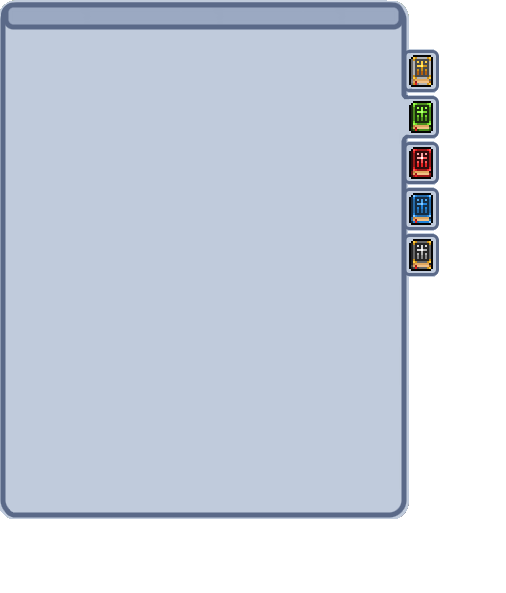
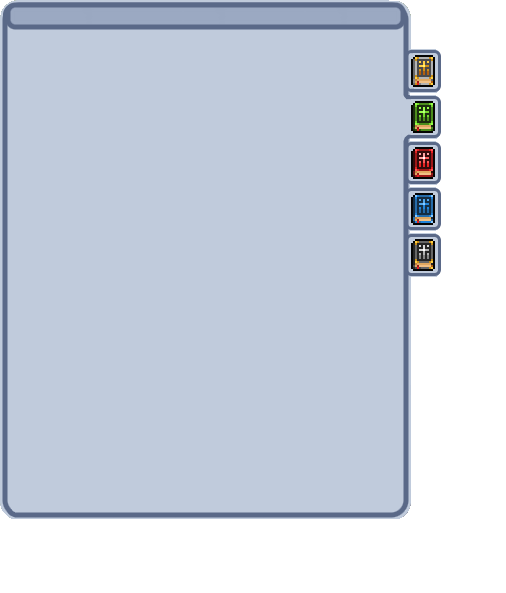
ability panel and drag and drop

Changed region(s): [[0.7708, 0.0, 0.8893, 0.8803], [0.0, 0.0, 0.0296, 0.8803]]

diff --git a/src/main/system/ui/skillpanel/UI_SkillPanel.java b/src/main/system/ui/skillpanel/UI_SkillPanel.java
@@ -7,7 +7,9 @@ import main.system.ui.Colors;
 import main.system.ui.FonT;
 import main.system.ui.skillbar.SKILL;
 import main.system.ui.skillbar.skills.SKL_Filler;
+import main.system.ui.skillbar.skills.SKL_RingSalvo;
 
+import java.awt.Point;
 import java.awt.Rectangle;
 import java.util.ArrayList;
 import java.util.Objects;
@@ -28,16 +30,20 @@ public class UI_SkillPanel {
     ArrayList<SKILL> poisonSkills = new ArrayList<>();
     ArrayList<SKILL> iceSkills = new ArrayList<>();
     ArrayList<SKILL> darkSkills = new ArrayList<>();
+    public Rectangle skillPanelMover = new Rectangle(409, 29);
+    public int toolTipNumber;
+    public SKILL draggedSKILL;
 
 
     public UI_SkillPanel(MainGame mg) {
+        this.mg = mg;
         whichPanel[0] = true;
         this.wholeSkillWindow = new Rectangle(skillPanelX, skillPanelY, 445, 524);
         for (int i = 0; i < 5; i++) {
-            hitBoxesSideButtons[i] = new Rectangle(123, 123, 38, 43);
+            hitBoxesSideButtons[i] = new Rectangle(123, 123, 32, 41);
         }
         for (int i = 0; i < 10; i++) {
-            arcaneSkills.add(new SKL_Filler(mg));
+            arcaneSkills.add(new SKL_RingSalvo(mg));
             fireSkills.add(new SKL_Filler(mg));
             poisonSkills.add(new SKL_Filler(mg));
             iceSkills.add(new SKL_Filler(mg));
@@ -65,35 +71,173 @@ public class UI_SkillPanel {
         }
         gc.setFill(Colors.darkBackground);
         gc.setFont(FonT.minecraftBold16);
-        gc.fillText("Spell Book", skillPanelX + 160, skillPanelY + 35);
+        gc.fillText("Spell Book", skillPanelX + 160, skillPanelY + 15);
         wholeSkillWindow.x = skillPanelX;
         wholeSkillWindow.y = skillPanelY;
+        skillPanelMover.x = skillPanelX;
+        skillPanelMover.y = skillPanelY;
         for (int i = 0; i < 5; i++) {
             hitBoxesSideButtons[i].x = skillPanelX + 407;
-            hitBoxesSideButtons[i].y = skillPanelY + 51 + 51 * i;
+            hitBoxesSideButtons[i].y = skillPanelY + 51 + 45 * i;
+            if (hitBoxesSideButtons[i].contains(mg.inputH.lastMousePosition)) {
+                drawToolTip(gc, mg.inputH.lastMousePosition.x, mg.inputH.lastMousePosition.y, i);
+            }
         }
     }
 
     private void drawSkills(GraphicsContext gc, int x, int y) {
-        x += 25;
-        y += 100;
+        x += 25; //?
+        y += 100;//?
         gc.setFont(FonT.minecraftItalic12);
         gc.setFill(Colors.darkBackground);
         if (whichPanel[0]) {
             for (int i = 0; i < arcaneSkills.size(); i++) {
                 arcaneSkills.get(i).drawSkillSlot(gc, x - 5, y - 40);
+                arcaneSkills.get(i).hitBox.x = x + 2;
+                arcaneSkills.get(i).hitBox.y = y - 33;
                 gc.fillText(arcaneSkills.get(i).name, x + 65, y - 25);
                 arcaneSkills.get(i + 1).drawSkillSlot(gc, x + 190, y - 40);
                 gc.fillText(arcaneSkills.get(i + 1).name, x + 260, y - 25);
+                arcaneSkills.get(i + 1).hitBox.x = x + 197;
+                arcaneSkills.get(i + 1).hitBox.y = y - 33;
+                i++;
+                y += 85;
+            }
+        } else if (whichPanel[1]) {
+            for (int i = 0; i < poisonSkills.size(); i++) {
+                poisonSkills.get(i).drawSkillSlot(gc, x - 5, y - 40);
+                gc.fillText(poisonSkills.get(i).name, x + 65, y - 25);
+                poisonSkills.get(i).hitBox.x = x + 2;
+                poisonSkills.get(i).hitBox.y = y - 33;
+                poisonSkills.get(i + 1).drawSkillSlot(gc, x + 190, y - 40);
+                gc.fillText(poisonSkills.get(i + 1).name, x + 260, y - 25);
+                poisonSkills.get(i + 1).hitBox.x = x + 197;
+                poisonSkills.get(i + 1).hitBox.y = y - 33;
+                i++;
+                y += 85;
+            }
+        } else if (whichPanel[2]) {
+            for (int i = 0; i < fireSkills.size(); i++) {
+                fireSkills.get(i).drawSkillSlot(gc, x - 5, y - 40);
+                gc.fillText(fireSkills.get(i).name, x + 65, y - 25);
+                fireSkills.get(i).hitBox.x = x + 2;
+                fireSkills.get(i).hitBox.y = y - 33;
+                fireSkills.get(i + 1).drawSkillSlot(gc, x + 190, y - 40);
+                gc.fillText(fireSkills.get(i + 1).name, x + 260, y - 25);
+                fireSkills.get(i + 1).hitBox.x = x + 197;
+                fireSkills.get(i + 1).hitBox.y = y - 33;
+
+                i++;
+                y += 85;
+            }
+        } else if (whichPanel[3]) {
+            for (int i = 0; i < iceSkills.size(); i++) {
+                iceSkills.get(i).drawSkillSlot(gc, x - 5, y - 40);
+                gc.fillText(iceSkills.get(i).name, x + 65, y - 25);
+                iceSkills.get(i).hitBox.x = x + 2;
+                iceSkills.get(i).hitBox.y = y - 33;
+                iceSkills.get(i + 1).drawSkillSlot(gc, x + 190, y - 40);
+                gc.fillText(iceSkills.get(i + 1).name, x + 260, y - 25);
+                iceSkills.get(i + 1).hitBox.x = x + 197;
+                iceSkills.get(i + 1).hitBox.y = y - 33;
+                i++;
+                y += 85;
+            }
+        } else if (whichPanel[4]) {
+            for (int i = 0; i < darkSkills.size(); i++) {
+                darkSkills.get(i).drawSkillSlot(gc, x - 5, y - 40);
+                gc.fillText(darkSkills.get(i).name, x + 65, y - 25);
+                darkSkills.get(i).hitBox.x = x + 2;
+                darkSkills.get(i).hitBox.y = y - 33;
+                darkSkills.get(i + 1).drawSkillSlot(gc, x + 190, y - 40);
+                gc.fillText(darkSkills.get(i + 1).name, x + 260, y - 25);
+                darkSkills.get(i + 1).hitBox.x = x + 197;
+                darkSkills.get(i + 1).hitBox.y = y - 33;
                 i++;
                 y += 85;
             }
         }
     }
 
-    public void dragAndDrop(GraphicsContext gc) {
-        if (whichPanel[0]) {
+    private void drawToolTip(GraphicsContext gc, int x, int y, int i) {
+        gc.setFill(Colors.lightGreyMiddleAlpha);
+        gc.fillRoundRect(x + 25, y - 15, 75, 20, 10, 10);
+        gc.setFill(Colors.darkBackground);
+        gc.strokeRoundRect(x + 25, y - 15, 75, 20, 10, 10);
+        gc.setFont(FonT.minecraftBold14);
+        switch (i) {
+            case 0 -> gc.fillText("Arcane Magic", x + 25, y);
+            case 1 -> gc.fillText("Poison Magic", x + 25, y);
+            case 2 -> gc.fillText("Fire Magic", x + 25, y);
+            case 3 -> gc.fillText("Ice Magic", x + 25, y);
+            case 4 -> gc.fillText("Dark Magic", x + 25, y);
+        }
+    }
 
+    public void dragAndDropSkillBar(GraphicsContext gc) {
+        Point mousePos = mg.inputH.lastMousePosition;
+        if (draggedSKILL != null) {
+            gc.drawImage(draggedSKILL.icon, mg.inputH.lastMousePosition.x - 25, mg.inputH.lastMousePosition.y - 25);
+            if (!mg.inputH.mouse1Pressed) {
+                for (int i = 0; i < 8; i++) {
+                    if (mg.sBar.hitBoxes[i].contains(mousePos)) {
+                        for (SKILL skill : mg.sBar.skills) {
+                            if (skill.name.equals(mg.sBar.skills[i].name)) {
+                                draggedSKILL = null;
+                                return;
+                            }
+                        }
+                        mg.sBar.skills[i] = draggedSKILL;
+                        draggedSKILL = null;
+                        return;
+                    }
+                }
+                draggedSKILL = null;
+            }
+        }
+        if (draggedSKILL == null && mg.inputH.mouse1Pressed) {
+            if (mg.skillPanel.whichPanel[0]) {
+                for (SKILL skill : arcaneSkills) {
+                    if (skill.hitBox.contains(mousePos)) {
+                        draggedSKILL = skill;
+                        return;
+                    }
+                }
+            } else if (mg.skillPanel.whichPanel[1]) {
+                for (SKILL skill : poisonSkills) {
+                    if (skill.hitBox.contains(mousePos)) {
+                        draggedSKILL = skill;
+                        return;
+                    }
+                }
+            } else if (mg.skillPanel.whichPanel[2]) {
+                for (SKILL skill : fireSkills) {
+                    if (skill.hitBox.contains(mousePos)) {
+                        draggedSKILL = skill;
+                        return;
+                    }
+                }
+            } else if (mg.skillPanel.whichPanel[3]) {
+                for (SKILL skill : iceSkills) {
+                    if (skill.hitBox.contains(mousePos)) {
+                        draggedSKILL = skill;
+                        return;
+                    }
+                }
+            } else if (mg.skillPanel.whichPanel[4]) {
+                for (SKILL skill : darkSkills) {
+                    if (skill.hitBox.contains(mousePos)) {
+                        draggedSKILL = skill;
+                        return;
+                    }
+                }
+            }
+            for (int i = 0; i < 8; i++) {
+                if (mg.sBar.hitBoxes[i].contains(mousePos)) {
+                    draggedSKILL = mg.sBar.skills[i];
+                    return;
+                }
+            }
         }
     }
 }

diff --git a/src/main/system/ui/inventory/UI_InventoryPanel.java b/src/main/system/ui/inventory/UI_InventoryPanel.java
@@ -552,14 +552,27 @@ public class UI_InventoryPanel {
                 mg.talentP.talentPanelY += mousePos.y - previousMousePosition.y;
             }
         } else if (mg.skillPanel.wholeSkillWindow.contains(mousePos)) {
-            for (int i = 0; i < 5; i++) {
-                if (mg.inputH.mouse1Pressed && mg.skillPanel.hitBoxesSideButtons[i].contains(mousePos)) {
-                    System.out.println("hey");
-                    for (int j = 0; j < 5; j++) {
-                        mg.skillPanel.whichPanel[i] = false;
+            if (mg.skillPanel.skillPanelMover.contains(mousePos)) {
+                if (mg.inputH.mouse1Pressed) {
+                    mg.skillPanel.skillPanelX += mousePos.x - previousMousePosition.x;
+                    mg.skillPanel.skillPanelY += mousePos.y - previousMousePosition.y;
+                    mg.skillPanel.skillPanelMover.x = mg.skillPanel.skillPanelX;
+                    mg.skillPanel.skillPanelMover.y = mg.skillPanel.skillPanelY;
+                }
+            } else {
+                for (int i = 0; i < 5; i++) {
+                    if (mg.skillPanel.hitBoxesSideButtons[i].contains(mousePos)) {
+                        if (mg.inputH.mouse1Pressed) {
+                            for (int j = 0; j < 5; j++) {
+                                mg.skillPanel.whichPanel[j] = false;
+                            }
+                            mg.skillPanel.whichPanel[i] = true;
+                            mg.inputH.mouse1Pressed = false;
+                            return;
+                        } else {
+                            mg.skillPanel.toolTipNumber = i;
+                        }
                     }
-                    mg.skillPanel.whichPanel[i] = true;
-                    return;
                 }
             }
         }
@@ -567,6 +580,7 @@ public class UI_InventoryPanel {
         previousMousePosition.y = mousePos.y;
     }
 
+    //TODO prevent windows off screen dragging
     private void drawCharacterBackGroundMain(GraphicsContext gc, int startX, int startY) {
         //inventory background
         wholeCharWindow.x = startX - 47;

diff --git a/src/main/system/ui/skillbar/SKILL.java b/src/main/system/ui/skillbar/SKILL.java
@@ -8,11 +8,12 @@ import main.MainGame;
 import main.system.ui.Colors;
 import main.system.ui.Effects;
 
+import java.awt.Rectangle;
 import java.util.Objects;
 
 abstract public class SKILL {
 
-    protected Image icon;
+    public Image icon;
     protected final MainGame mg;
     protected Effects[] procEffects = new Effects[5];
     public float totalCoolDown;
@@ -22,6 +23,7 @@ abstract public class SKILL {
     public float damage;
     protected int castTimeTotal;
     protected int castTimeActive;
+    public Rectangle hitBox = new Rectangle(53, 53);
     private int side1;
     private int side2;
     private int side3;
@@ -114,7 +116,7 @@ abstract public class SKILL {
 
     public void drawSkillSlot(GraphicsContext gc, int x, int y) {
         gc.drawImage(skillSlot, x, y);
-        gc.drawImage(icon, x + 6, y + 6);
+        gc.drawImage(icon, x + 7, y + 7);
     }
 
     protected Image setup(String imagePath) {
@@ -142,4 +144,9 @@ abstract public class SKILL {
     }
 
     abstract public void activate();
+
+    public void drawToolTip(GraphicsContext gc, int x, int y) {
+        //TODO tooltip
+
+    }
 }

diff --git a/src/main/MainGame.java b/src/main/MainGame.java
@@ -299,7 +299,7 @@ public class MainGame {
             qPanel.draw(gc);
             sBar.draw(gc);
             wAnim.drawLayerOneTwo(gc);
-            ui.draw(gc);
+
             if (showMap) {
                 gameMap.draw(gc);
             }
@@ -318,8 +318,9 @@ public class MainGame {
             }
             if (showAbilities) {
                 skillPanel.drawSkillPanel(gc);
-                skillPanel.dragAndDrop(gc);
+                skillPanel.dragAndDropSkillBar(gc);
             }
+            ui.draw(gc);
         } else if (gameState == State.TITLE || gameState == State.TITLE_OPTION || loadingScreen) {
             ui.draw(gc);
         }

diff --git a/src/main/system/ui/skillbar/UI_SkillBar.java b/src/main/system/ui/skillbar/UI_SkillBar.java
@@ -41,8 +41,10 @@ public class UI_SkillBar {
     public Rectangle abilitiesBox = new Rectangle(skillBarX + 64 * 7 + 110, skillBarY + 28, 32, 32);
     public Rectangle mapBox = new Rectangle(skillBarX + 64 * 7 + 144, skillBarY + 28, 32, 32);
     public Rectangle settingsBox = new Rectangle(skillBarX + 64 * 7 + 178, skillBarY + 28, 32, 32);
+    MainGame mg;
 
     public UI_SkillBar(MainGame mg) {
+        this.mg = mg;
         skills[0] = new SKL_RingSalvo(mg);
         skills[1] = new SKL_Lightning(mg);
         skills[2] = new SKL_SelfRegen(mg);

diff --git a/src/main/system/ui/skillbar/skills/SKL_RingSalvo.java b/src/main/system/ui/skillbar/skills/SKL_RingSalvo.java
@@ -14,6 +14,7 @@ public class SKL_RingSalvo extends SKILL {
         actualCoolDown = 120;
         this.coolDownCoefficient = 0;
         this.icon = setup("ring_salvo.png");
+        name = "Fire Salvo";
     }
 
     @Override
@@ -24,7 +25,7 @@ public class SKL_RingSalvo extends SKILL {
 
     @Override
     public void update() {
-       super.updateCooldown();
+        super.updateCooldown();
     }
 
     @Override

diff --git a/src/main/system/ui/skillbar/skills/SKL_AutoShot.java b/src/main/system/ui/skillbar/skills/SKL_AutoShot.java
@@ -23,11 +23,12 @@ public class SKL_AutoShot extends SKILL {
     public void draw(GraphicsContext gc, int skillBarX, int skillBarY) {
         drawIcon(gc, skillBarX, skillBarY);
         drawCooldown(gc, skillBarX, skillBarY);
+        name = "Slime Ball";
     }
 
     @Override
     public void update() {
-       super.updateCooldown();
+        super.updateCooldown();
     }
 
     @Override

diff --git a/src/input/InputHandler.java b/src/input/InputHandler.java
@@ -237,6 +237,7 @@ public class InputHandler {
                 mg.showChar = false;
                 mg.showMap = false;
                 mg.showTalents = false;
+                mg.showAbilities = false;
                 try {
                     Thread.sleep(15);
                 } catch (InterruptedException ex) {

diff --git a/src/main/system/ui/skillbar/skills/SKL_Filler.java b/src/main/system/ui/skillbar/skills/SKL_Filler.java
@@ -7,7 +7,7 @@ import main.system.ui.skillbar.SKILL;
 public class SKL_Filler extends SKILL {
     public SKL_Filler(MainGame mg) {
         super(mg);
-        this.name = "Regenerative Aura";
+        name = "";
     }
 
     @Override

diff --git a/src/main/system/ui/skillbar/skills/SKL_Lightning.java b/src/main/system/ui/skillbar/skills/SKL_Lightning.java
@@ -13,6 +13,7 @@ public class SKL_Lightning extends SKILL {
         super(mg);
         this.totalCoolDown = 600;
         this.actualCoolDown = 600;
+        name = "Lightning Strike";
     }
 
     @Override
